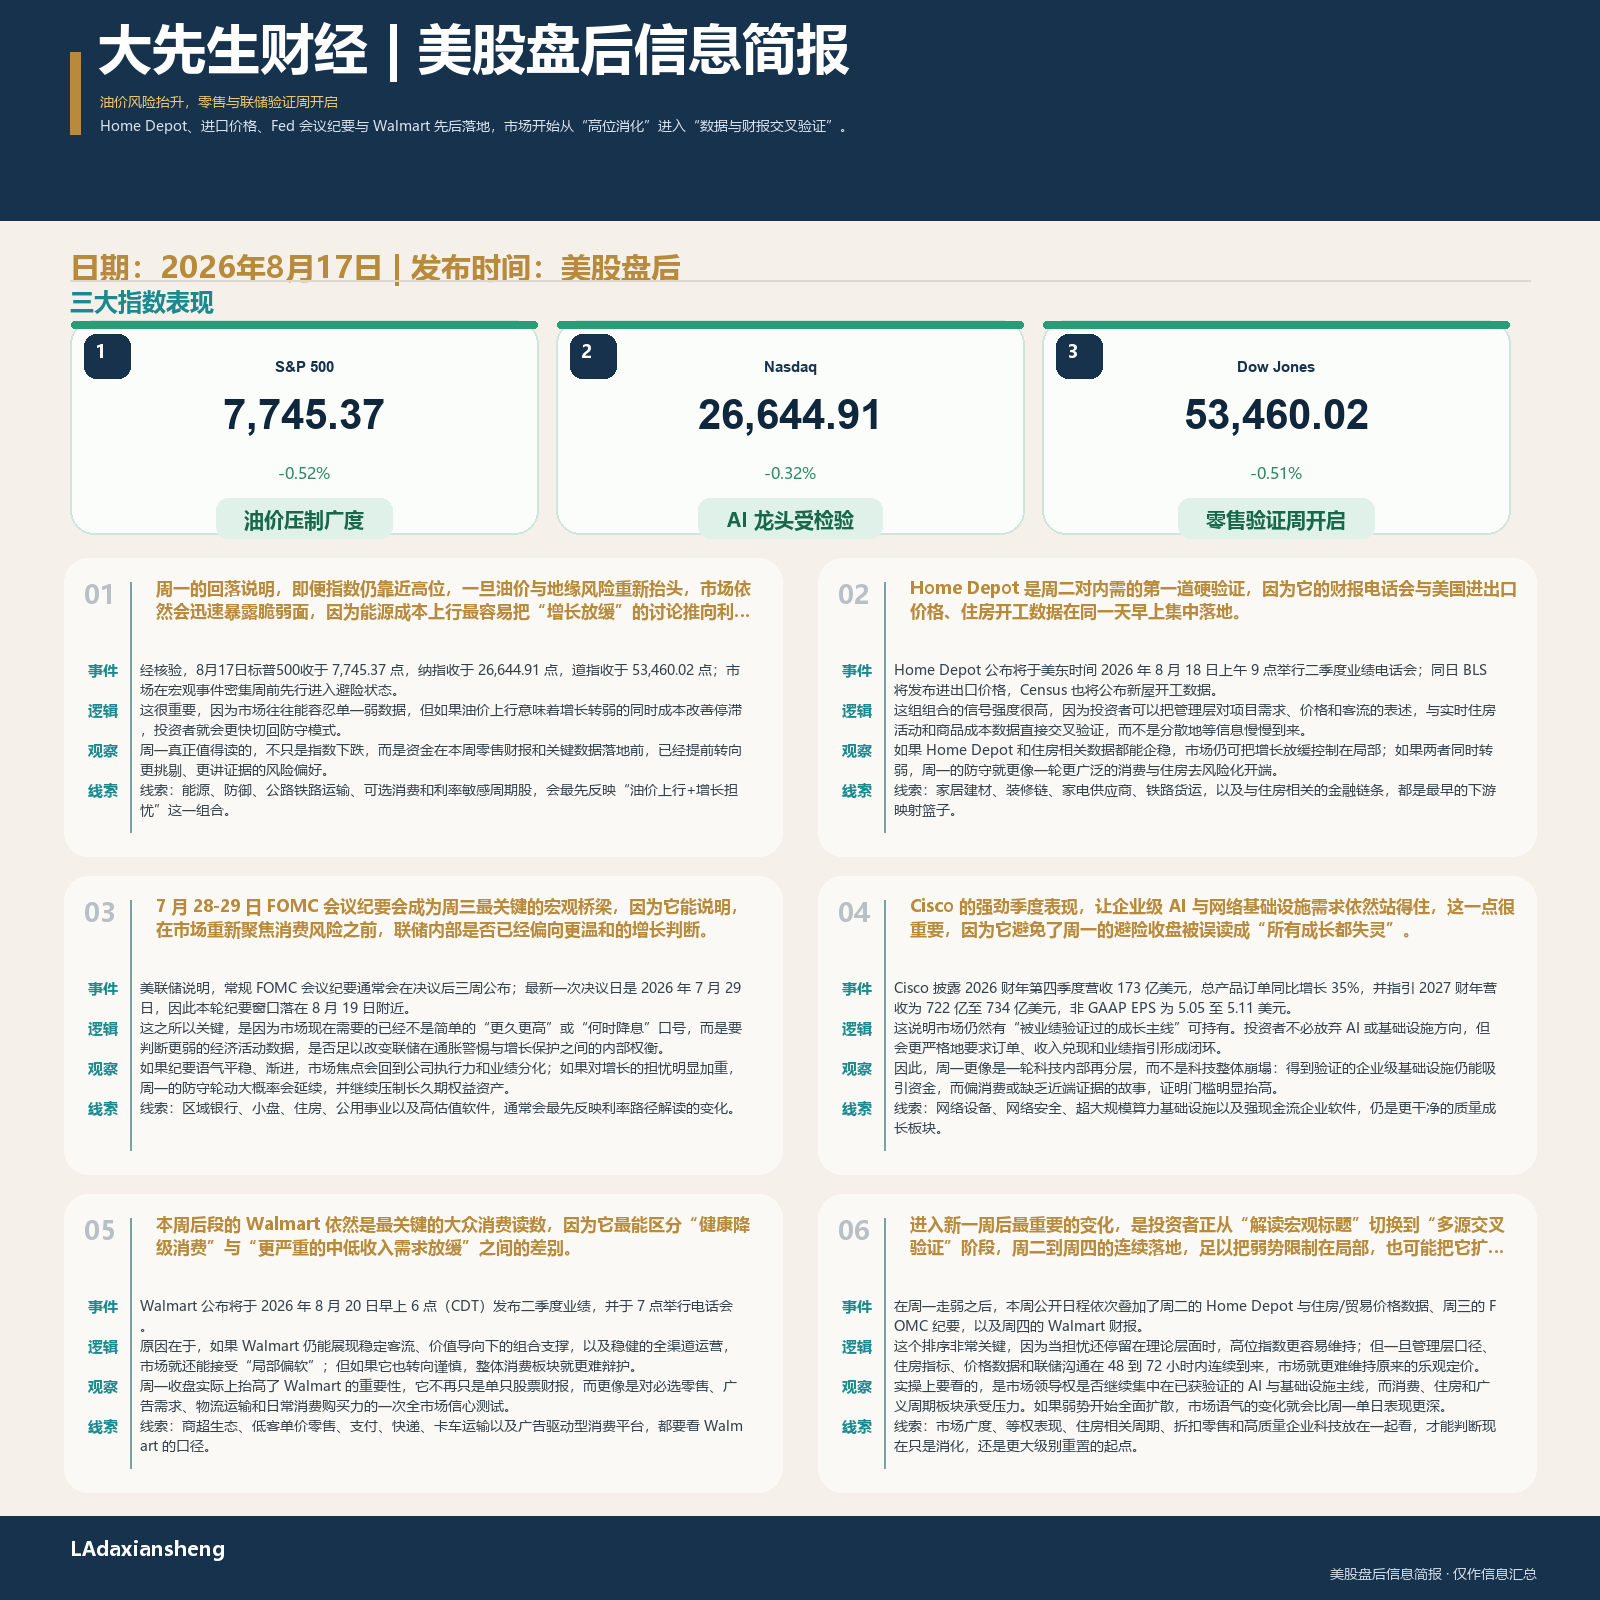
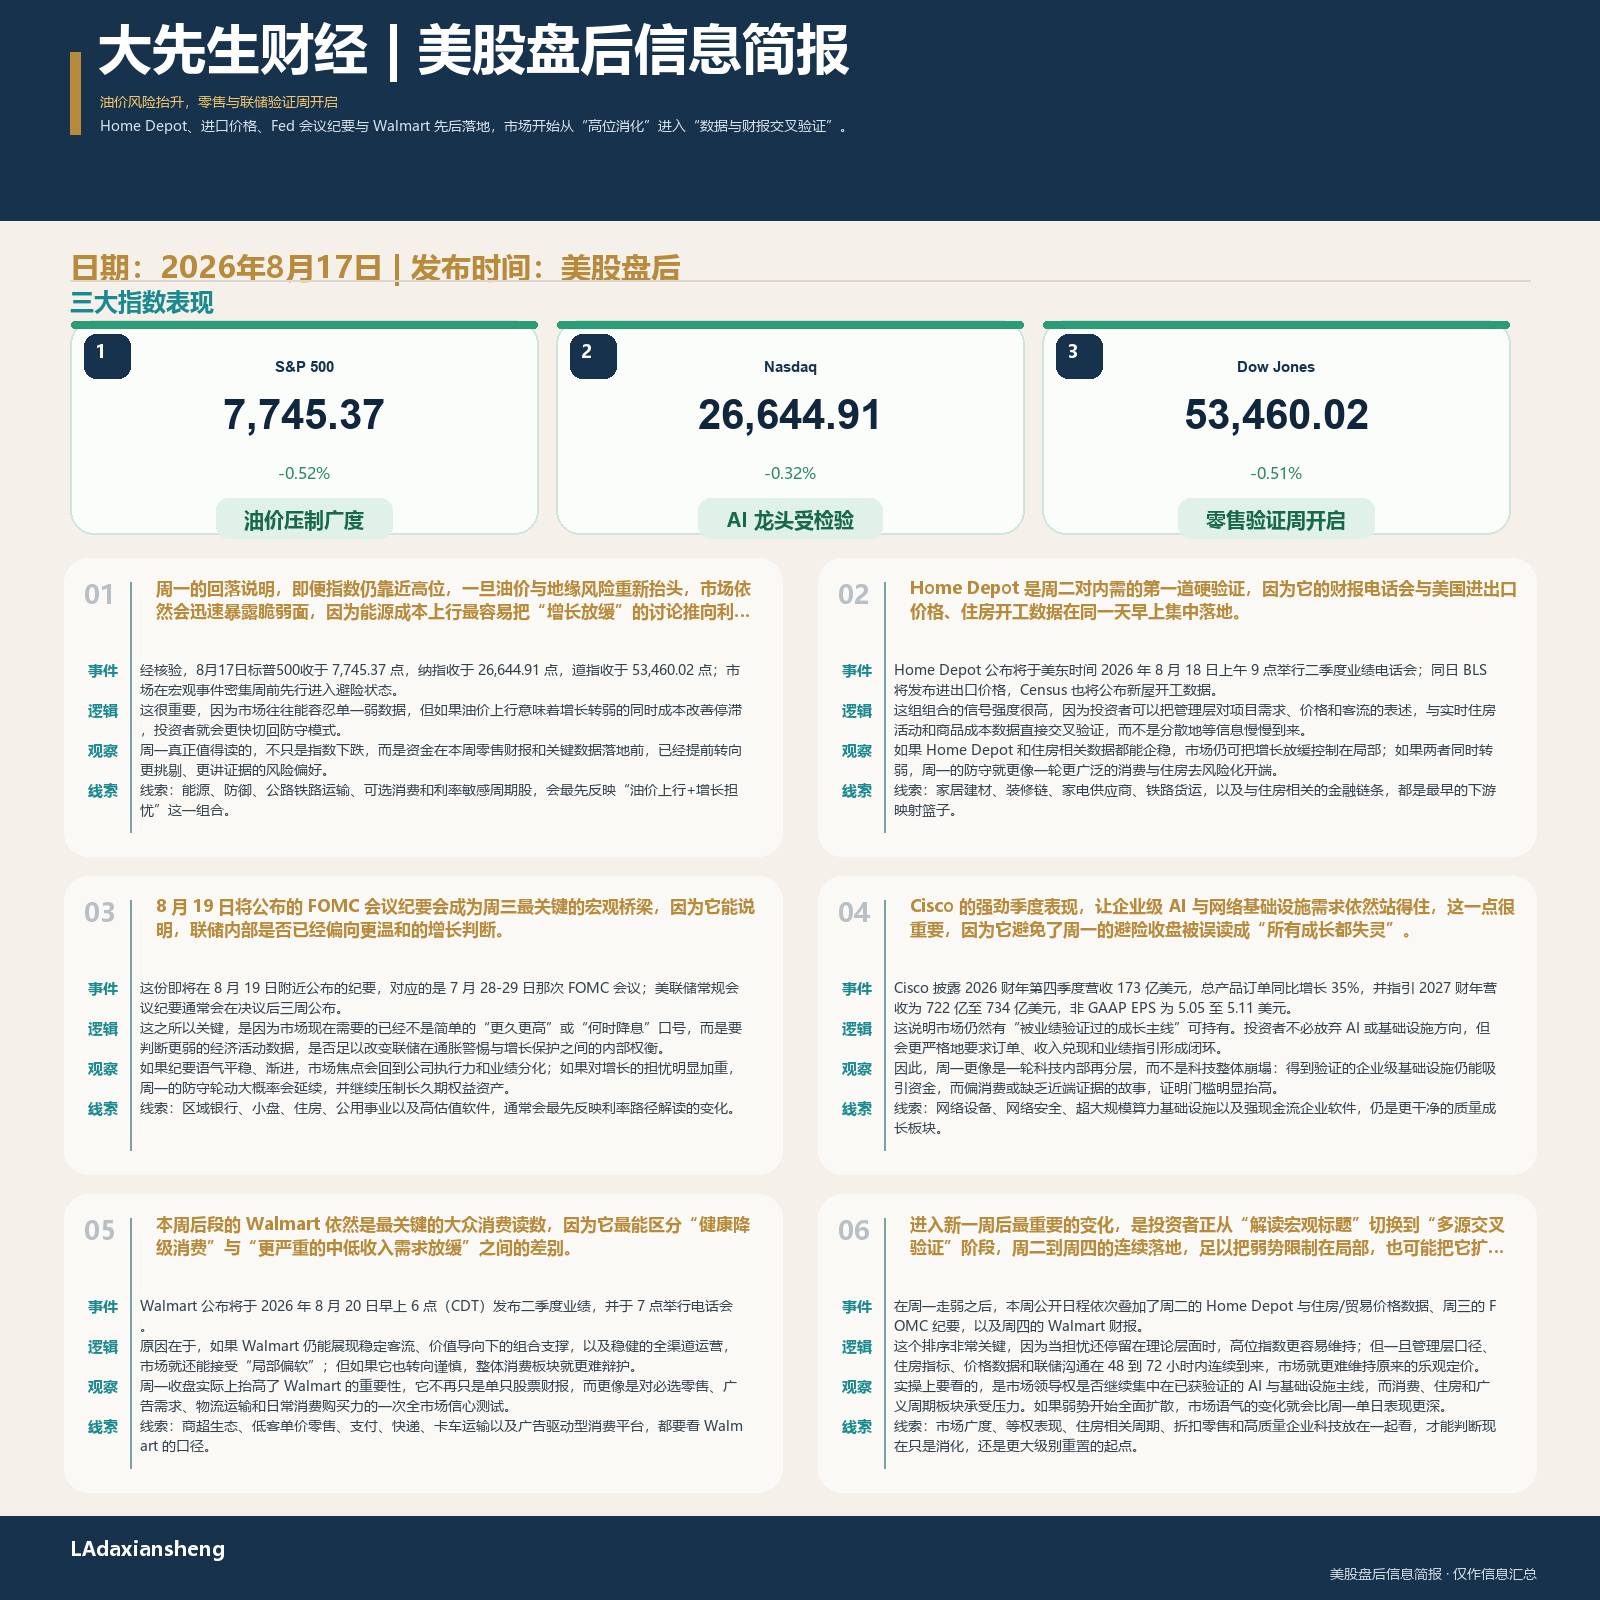
Clarify FOMC minutes date in 2026-08-17 brief

Changed region(s): [[0.0938, 0.5625, 0.4688, 0.6562]]

diff --git a/docs/index.html b/docs/index.html
@@ -525,9 +525,9 @@
     "category": "日报",
     "variantLabel": "竖版",
     "portraitFileName": "2026-08-17-美股盘后信息简报.png",
-    "portraitVersion": 1787012382,
+    "portraitVersion": 1787012829,
     "squareFileName": "2026-08-17-美股盘后信息简报-1x1.png",
-    "squareVersion": 1787012382
+    "squareVersion": 1787012829
   },
   {
     "fileName": "2026-08-17-AI下周展望.png",
@@ -536,9 +536,9 @@
     "category": "专题",
     "variantLabel": "竖版",
     "portraitFileName": "2026-08-17-AI下周展望.png",
-    "portraitVersion": 1786997093,
+    "portraitVersion": 1787012419,
     "squareFileName": "2026-08-17-AI下周展望-1x1.png",
-    "squareVersion": 1786997093
+    "squareVersion": 1787012419
   },
   {
     "fileName": "2026-08-16-AI周总结.png",
@@ -547,9 +547,9 @@
     "category": "专题",
     "variantLabel": "竖版",
     "portraitFileName": "2026-08-16-AI周总结.png",
-    "portraitVersion": 1786997093,
+    "portraitVersion": 1787012419,
     "squareFileName": "2026-08-16-AI周总结-1x1.png",
-    "squareVersion": 1786997092
+    "squareVersion": 1787012419
   },
   {
     "fileName": "2026-08-14-美股盘后信息简报.png",
@@ -558,9 +558,9 @@
     "category": "日报",
     "variantLabel": "竖版",
     "portraitFileName": "2026-08-14-美股盘后信息简报.png",
-    "portraitVersion": 1786997092,
+    "portraitVersion": 1787012419,
     "squareFileName": "2026-08-14-美股盘后信息简报-1x1.png",
-    "squareVersion": 1786997092
+    "squareVersion": 1787012419
   },
   {
     "fileName": "2026-08-13-美股盘后信息简报.png",
@@ -569,9 +569,9 @@
     "category": "日报",
     "variantLabel": "竖版",
     "portraitFileName": "2026-08-13-美股盘后信息简报.png",
-    "portraitVersion": 1786997092,
+    "portraitVersion": 1787012418,
     "squareFileName": "2026-08-13-美股盘后信息简报-1x1.png",
-    "squareVersion": 1786997092
+    "squareVersion": 1787012418
   },
   {
     "fileName": "2026-08-13-美股盘后信息简报-1x1-v2.png",
@@ -580,7 +580,7 @@
     "category": "日报",
     "variantLabel": "竖版",
     "portraitFileName": "2026-08-13-美股盘后信息简报-1x1-v2.png",
-    "portraitVersion": 1786997092,
+    "portraitVersion": 1787012418,
     "squareFileName": "",
     "squareVersion": 0
   },
@@ -591,9 +591,9 @@
     "category": "日报",
     "variantLabel": "竖版",
     "portraitFileName": "2026-08-12-美股盘后信息简报.png",
-    "portraitVersion": 1786997092,
+    "portraitVersion": 1787012418,
     "squareFileName": "2026-08-12-美股盘后信息简报-1x1.png",
-    "squareVersion": 1786997091
+    "squareVersion": 1787012418
   },
   {
     "fileName": "2026-08-11-美股盘后信息简报.png",
@@ -602,9 +602,9 @@
     "category": "日报",
     "variantLabel": "竖版",
     "portraitFileName": "2026-08-11-美股盘后信息简报.png",
-    "portraitVersion": 1786997091,
+    "portraitVersion": 1787012418,
     "squareFileName": "2026-08-11-美股盘后信息简报-1x1.png",
-    "squareVersion": 1786997091
+    "squareVersion": 1787012418
   },
   {
     "fileName": "2026-08-10-美股盘后信息简报.png",
@@ -613,9 +613,9 @@
     "category": "日报",
     "variantLabel": "竖版",
     "portraitFileName": "2026-08-10-美股盘后信息简报.png",
-    "portraitVersion": 1786997091,
+    "portraitVersion": 1787012417,
     "squareFileName": "2026-08-10-美股盘后信息简报-1x1.png",
-    "squareVersion": 1786997091
+    "squareVersion": 1787012417
   },
   {
     "fileName": "2026-08-10-AI下周展望.png",
@@ -624,9 +624,9 @@
     "category": "专题",
     "variantLabel": "竖版",
     "portraitFileName": "2026-08-10-AI下周展望.png",
-    "portraitVersion": 1786997091,
+    "portraitVersion": 1787012417,
     "squareFileName": "2026-08-10-AI下周展望-1x1.png",
-    "squareVersion": 1786997090
+    "squareVersion": 1787012417
   },
   {
     "fileName": "2026-08-09-AI周总结.png",
@@ -635,9 +635,9 @@
     "category": "专题",
     "variantLabel": "竖版",
     "portraitFileName": "2026-08-09-AI周总结.png",
-    "portraitVersion": 1786997090,
+    "portraitVersion": 1787012417,
     "squareFileName": "2026-08-09-AI周总结-1x1.png",
-    "squareVersion": 1786997090
+    "squareVersion": 1787012417
   },
   {
     "fileName": "2026-08-07-美股盘后信息简报.png",
@@ -646,9 +646,9 @@
     "category": "日报",
     "variantLabel": "竖版",
     "portraitFileName": "2026-08-07-美股盘后信息简报.png",
-    "portraitVersion": 1786997090,
+    "portraitVersion": 1787012416,
     "squareFileName": "2026-08-07-美股盘后信息简报-1x1.png",
-    "squareVersion": 1786997090
+    "squareVersion": 1787012416
   },
   {
     "fileName": "2026-08-06-美股盘后信息简报.png",
@@ -657,9 +657,9 @@
     "category": "日报",
     "variantLabel": "竖版",
     "portraitFileName": "2026-08-06-美股盘后信息简报.png",
-    "portraitVersion": 1786997090,
+    "portraitVersion": 1787012416,
     "squareFileName": "2026-08-06-美股盘后信息简报-1x1.png",
-    "squareVersion": 1786997090
+    "squareVersion": 1787012416
   },
   {
     "fileName": "2026-08-05-美股盘后信息简报.png",
@@ -668,9 +668,9 @@
     "category": "日报",
     "variantLabel": "竖版",
     "portraitFileName": "2026-08-05-美股盘后信息简报.png",
-    "portraitVersion": 1786997089,
+    "portraitVersion": 1787012416,
     "squareFileName": "2026-08-05-美股盘后信息简报-1x1.png",
-    "squareVersion": 1786997089
+    "squareVersion": 1787012416
   },
   {
     "fileName": "2026-08-04-美股盘后信息简报.png",
@@ -679,9 +679,9 @@
     "category": "日报",
     "variantLabel": "竖版",
     "portraitFileName": "2026-08-04-美股盘后信息简报.png",
-    "portraitVersion": 1786997089,
+    "portraitVersion": 1787012415,
     "squareFileName": "2026-08-04-美股盘后信息简报-1x1.png",
-    "squareVersion": 1786997089
+    "squareVersion": 1787012415
   },
   {
     "fileName": "2026-08-03-美股盘后信息简报.png",
@@ -690,9 +690,9 @@
     "category": "日报",
     "variantLabel": "竖版",
     "portraitFileName": "2026-08-03-美股盘后信息简报.png",
-    "portraitVersion": 1786997089,
+    "portraitVersion": 1787012415,
     "squareFileName": "2026-08-03-美股盘后信息简报-1x1.png",
-    "squareVersion": 1786997089
+    "squareVersion": 1787012415
   },
   {
     "fileName": "2026-07-26-周末专题-特朗普SK黄仁勋版.png",
@@ -701,7 +701,7 @@
     "category": "专题",
     "variantLabel": "竖版",
     "portraitFileName": "2026-07-26-周末专题-特朗普SK黄仁勋版.png",
-    "portraitVersion": 1786997088,
+    "portraitVersion": 1787012414,
     "squareFileName": "",
     "squareVersion": 0
   }

diff --git a/work/dasheng_brief_site/index.html b/work/dasheng_brief_site/index.html
@@ -525,9 +525,9 @@
     "category": "日报",
     "variantLabel": "竖版",
     "portraitFileName": "2026-08-17-美股盘后信息简报.png",
-    "portraitVersion": 1787012382,
+    "portraitVersion": 1787012829,
     "squareFileName": "2026-08-17-美股盘后信息简报-1x1.png",
-    "squareVersion": 1787012382
+    "squareVersion": 1787012829
   },
   {
     "fileName": "2026-08-17-AI下周展望.png",
@@ -536,9 +536,9 @@
     "category": "专题",
     "variantLabel": "竖版",
     "portraitFileName": "2026-08-17-AI下周展望.png",
-    "portraitVersion": 1786997093,
+    "portraitVersion": 1787012419,
     "squareFileName": "2026-08-17-AI下周展望-1x1.png",
-    "squareVersion": 1786997093
+    "squareVersion": 1787012419
   },
   {
     "fileName": "2026-08-16-AI周总结.png",
@@ -547,9 +547,9 @@
     "category": "专题",
     "variantLabel": "竖版",
     "portraitFileName": "2026-08-16-AI周总结.png",
-    "portraitVersion": 1786997093,
+    "portraitVersion": 1787012419,
     "squareFileName": "2026-08-16-AI周总结-1x1.png",
-    "squareVersion": 1786997092
+    "squareVersion": 1787012419
   },
   {
     "fileName": "2026-08-14-美股盘后信息简报.png",
@@ -558,9 +558,9 @@
     "category": "日报",
     "variantLabel": "竖版",
     "portraitFileName": "2026-08-14-美股盘后信息简报.png",
-    "portraitVersion": 1786997092,
+    "portraitVersion": 1787012419,
     "squareFileName": "2026-08-14-美股盘后信息简报-1x1.png",
-    "squareVersion": 1786997092
+    "squareVersion": 1787012419
   },
   {
     "fileName": "2026-08-13-美股盘后信息简报.png",
@@ -569,9 +569,9 @@
     "category": "日报",
     "variantLabel": "竖版",
     "portraitFileName": "2026-08-13-美股盘后信息简报.png",
-    "portraitVersion": 1786997092,
+    "portraitVersion": 1787012418,
     "squareFileName": "2026-08-13-美股盘后信息简报-1x1.png",
-    "squareVersion": 1786997092
+    "squareVersion": 1787012418
   },
   {
     "fileName": "2026-08-13-美股盘后信息简报-1x1-v2.png",
@@ -580,7 +580,7 @@
     "category": "日报",
     "variantLabel": "竖版",
     "portraitFileName": "2026-08-13-美股盘后信息简报-1x1-v2.png",
-    "portraitVersion": 1786997092,
+    "portraitVersion": 1787012418,
     "squareFileName": "",
     "squareVersion": 0
   },
@@ -591,9 +591,9 @@
     "category": "日报",
     "variantLabel": "竖版",
     "portraitFileName": "2026-08-12-美股盘后信息简报.png",
-    "portraitVersion": 1786997092,
+    "portraitVersion": 1787012418,
     "squareFileName": "2026-08-12-美股盘后信息简报-1x1.png",
-    "squareVersion": 1786997091
+    "squareVersion": 1787012418
   },
   {
     "fileName": "2026-08-11-美股盘后信息简报.png",
@@ -602,9 +602,9 @@
     "category": "日报",
     "variantLabel": "竖版",
     "portraitFileName": "2026-08-11-美股盘后信息简报.png",
-    "portraitVersion": 1786997091,
+    "portraitVersion": 1787012418,
     "squareFileName": "2026-08-11-美股盘后信息简报-1x1.png",
-    "squareVersion": 1786997091
+    "squareVersion": 1787012418
   },
   {
     "fileName": "2026-08-10-美股盘后信息简报.png",
@@ -613,9 +613,9 @@
     "category": "日报",
     "variantLabel": "竖版",
     "portraitFileName": "2026-08-10-美股盘后信息简报.png",
-    "portraitVersion": 1786997091,
+    "portraitVersion": 1787012417,
     "squareFileName": "2026-08-10-美股盘后信息简报-1x1.png",
-    "squareVersion": 1786997091
+    "squareVersion": 1787012417
   },
   {
     "fileName": "2026-08-10-AI下周展望.png",
@@ -624,9 +624,9 @@
     "category": "专题",
     "variantLabel": "竖版",
     "portraitFileName": "2026-08-10-AI下周展望.png",
-    "portraitVersion": 1786997091,
+    "portraitVersion": 1787012417,
     "squareFileName": "2026-08-10-AI下周展望-1x1.png",
-    "squareVersion": 1786997090
+    "squareVersion": 1787012417
   },
   {
     "fileName": "2026-08-09-AI周总结.png",
@@ -635,9 +635,9 @@
     "category": "专题",
     "variantLabel": "竖版",
     "portraitFileName": "2026-08-09-AI周总结.png",
-    "portraitVersion": 1786997090,
+    "portraitVersion": 1787012417,
     "squareFileName": "2026-08-09-AI周总结-1x1.png",
-    "squareVersion": 1786997090
+    "squareVersion": 1787012417
   },
   {
     "fileName": "2026-08-07-美股盘后信息简报.png",
@@ -646,9 +646,9 @@
     "category": "日报",
     "variantLabel": "竖版",
     "portraitFileName": "2026-08-07-美股盘后信息简报.png",
-    "portraitVersion": 1786997090,
+    "portraitVersion": 1787012416,
     "squareFileName": "2026-08-07-美股盘后信息简报-1x1.png",
-    "squareVersion": 1786997090
+    "squareVersion": 1787012416
   },
   {
     "fileName": "2026-08-06-美股盘后信息简报.png",
@@ -657,9 +657,9 @@
     "category": "日报",
     "variantLabel": "竖版",
     "portraitFileName": "2026-08-06-美股盘后信息简报.png",
-    "portraitVersion": 1786997090,
+    "portraitVersion": 1787012416,
     "squareFileName": "2026-08-06-美股盘后信息简报-1x1.png",
-    "squareVersion": 1786997090
+    "squareVersion": 1787012416
   },
   {
     "fileName": "2026-08-05-美股盘后信息简报.png",
@@ -668,9 +668,9 @@
     "category": "日报",
     "variantLabel": "竖版",
     "portraitFileName": "2026-08-05-美股盘后信息简报.png",
-    "portraitVersion": 1786997089,
+    "portraitVersion": 1787012416,
     "squareFileName": "2026-08-05-美股盘后信息简报-1x1.png",
-    "squareVersion": 1786997089
+    "squareVersion": 1787012416
   },
   {
     "fileName": "2026-08-04-美股盘后信息简报.png",
@@ -679,9 +679,9 @@
     "category": "日报",
     "variantLabel": "竖版",
     "portraitFileName": "2026-08-04-美股盘后信息简报.png",
-    "portraitVersion": 1786997089,
+    "portraitVersion": 1787012415,
     "squareFileName": "2026-08-04-美股盘后信息简报-1x1.png",
-    "squareVersion": 1786997089
+    "squareVersion": 1787012415
   },
   {
     "fileName": "2026-08-03-美股盘后信息简报.png",
@@ -690,9 +690,9 @@
     "category": "日报",
     "variantLabel": "竖版",
     "portraitFileName": "2026-08-03-美股盘后信息简报.png",
-    "portraitVersion": 1786997089,
+    "portraitVersion": 1787012415,
     "squareFileName": "2026-08-03-美股盘后信息简报-1x1.png",
-    "squareVersion": 1786997089
+    "squareVersion": 1787012415
   },
   {
     "fileName": "2026-07-26-周末专题-特朗普SK黄仁勋版.png",
@@ -701,7 +701,7 @@
     "category": "专题",
     "variantLabel": "竖版",
     "portraitFileName": "2026-07-26-周末专题-特朗普SK黄仁勋版.png",
-    "portraitVersion": 1786997088,
+    "portraitVersion": 1787012414,
     "squareFileName": "",
     "squareVersion": 0
   }
